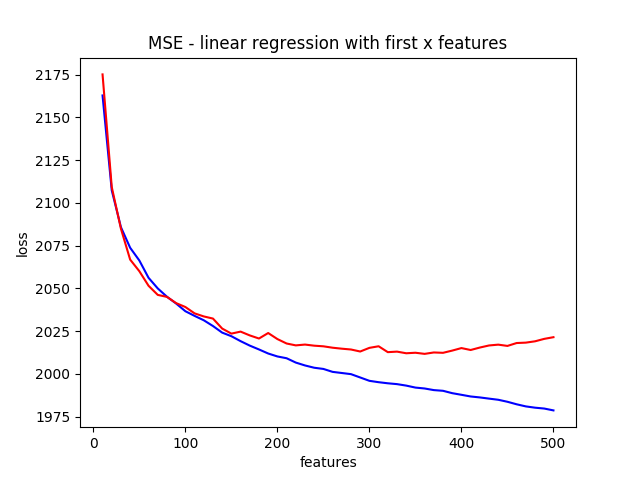
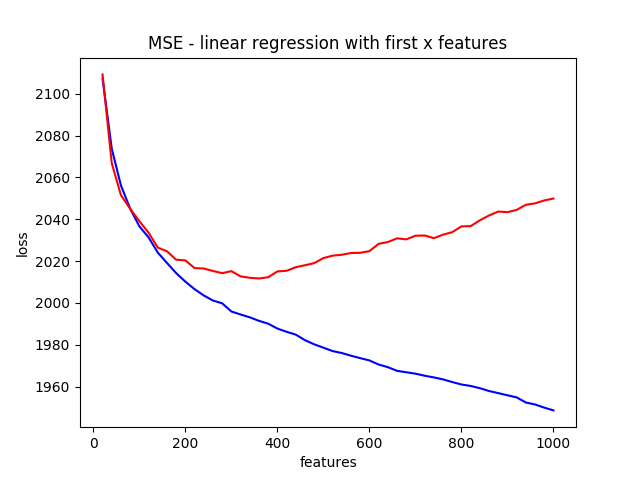
recise exp

diff --git a/final/linear_regression.py b/final/linear_regression.py
@@ -53,8 +53,8 @@ def predict(file_name, regularization):
 def expiriment():
     x_train, y_train, x_valid, y_valid = get_train_data(0.2)
     loss = LossManager()
-    feature_size = 500
-    interval = 10
+    feature_size = 1000
+    interval = 20
     
     for i in range(feature_size // interval):
         f_start = 0
